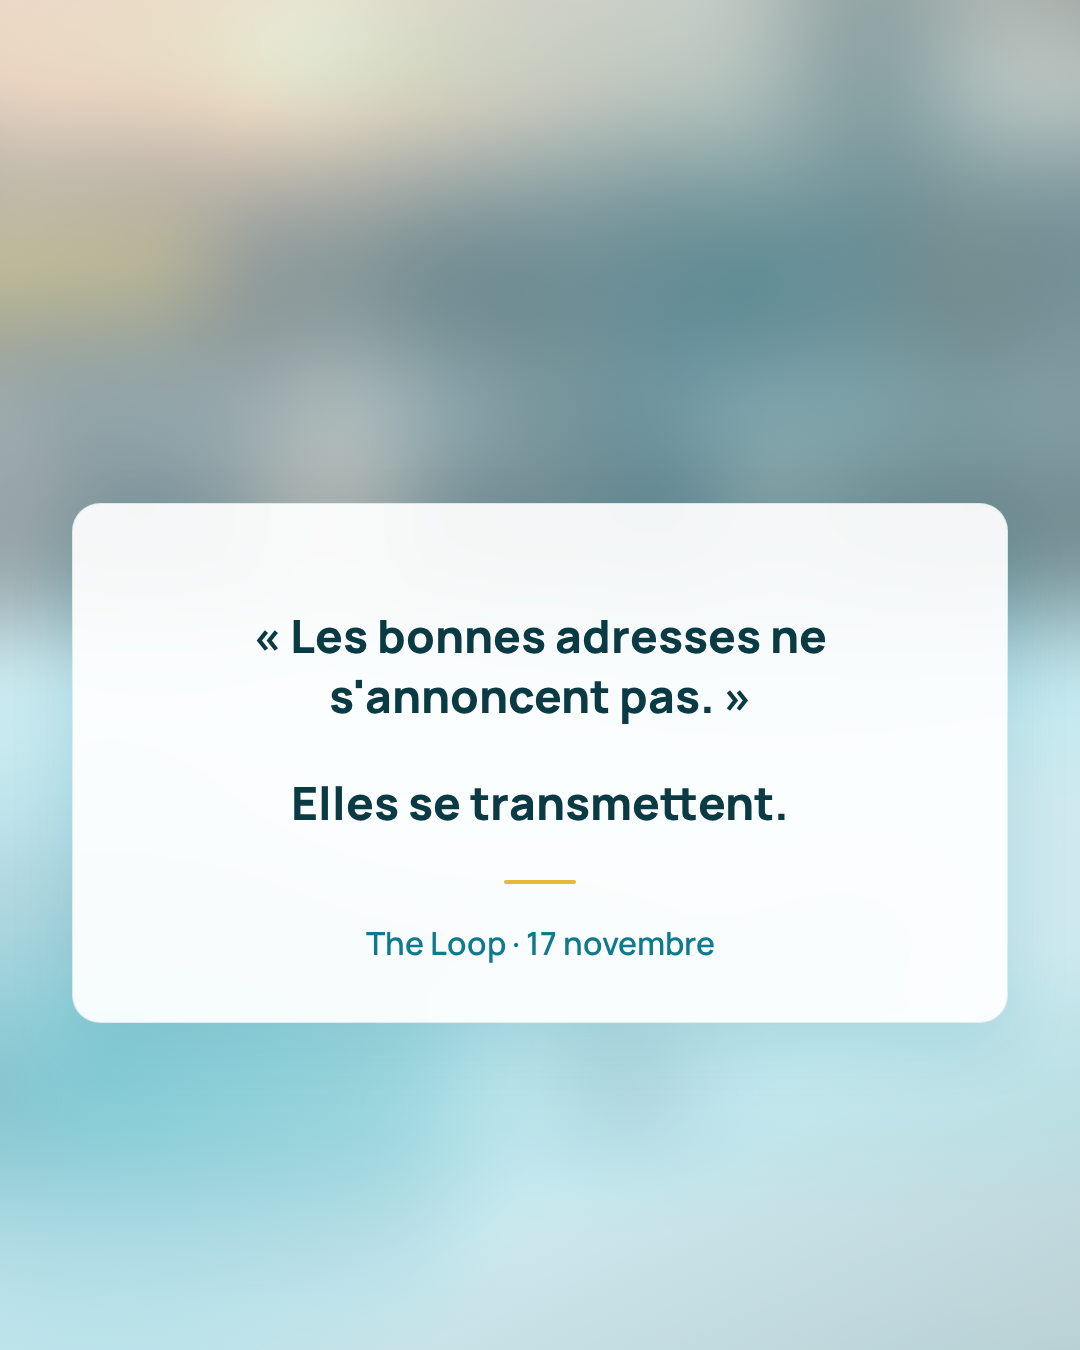
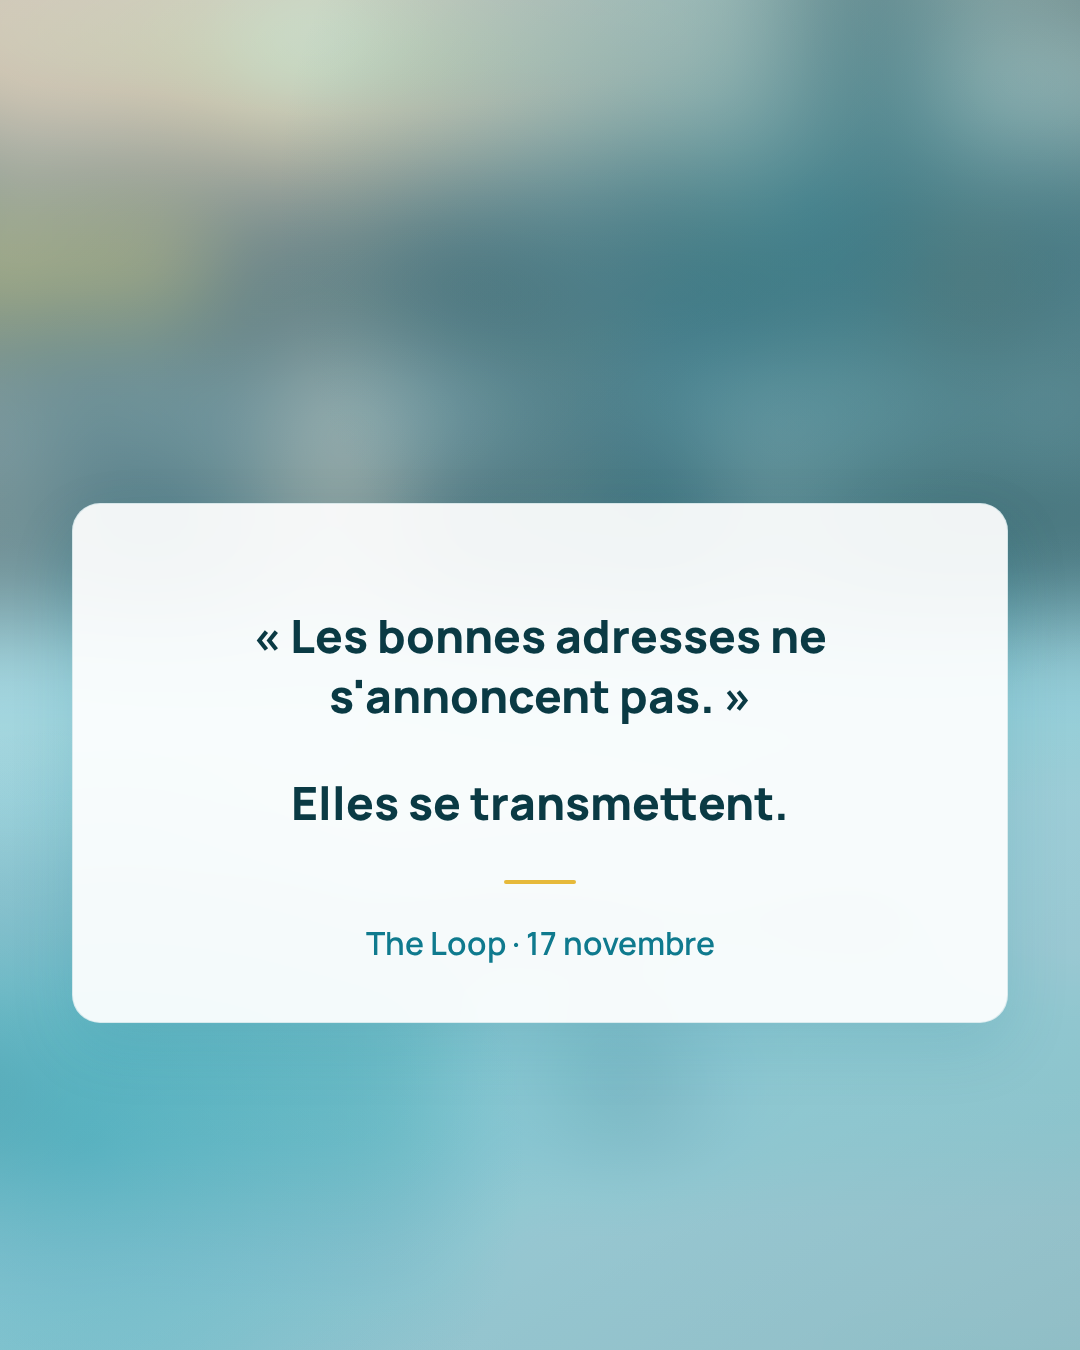
docs(com): fond texte — bleu-vert encore renforcé

diff --git a/docs/communication/lancement-2026/export-visuels-pack-acte-a-v4-light.html b/docs/communication/lancement-2026/export-visuels-pack-acte-a-v4-light.html
@@ -11,8 +11,8 @@
       --teal-mid: #1596ad;
       --teal-light: #a8d9e4;
       --gold: #e6b93a;
-      --bg: #dff0f4;
-      --bg2: #b5dde8;
+      --bg: #c8e8ef;
+      --bg2: #8ecbd9;
       --card: #ffffff;
       --muted: #4a6570;
     }
@@ -24,7 +24,7 @@
       margin: 0 auto 16px;
       position: relative;
       overflow: hidden;
-      background: linear-gradient(155deg, var(--bg) 0%, var(--bg2) 42%, var(--teal-light) 78%, rgba(15,122,142,0.35) 100%);
+      background: linear-gradient(150deg, var(--bg) 0%, var(--bg2) 38%, #6eb8c9 72%, rgba(15,122,142,0.55) 100%);
       color: var(--deep);
     }
     .c.reel { height: 1920px; }
@@ -34,13 +34,14 @@
       inset: -20%;
       background: url('assets/capture-accueil-2.jpg') center 20% / cover no-repeat;
       filter: blur(52px) saturate(1.25) brightness(1.05) hue-rotate(-8deg);
-      opacity: 0.42;
+      opacity: 0.48;
     }
     .atmo-teal {
       position: absolute;
       inset: 0;
-      background: radial-gradient(ellipse 90% 70% at 70% 20%, rgba(15,122,142,0.28), transparent 55%),
-        radial-gradient(ellipse 80% 60% at 10% 80%, rgba(21,150,173,0.22), transparent 50%);
+      background: radial-gradient(ellipse 95% 75% at 75% 15%, rgba(15,122,142,0.38), transparent 52%),
+        radial-gradient(ellipse 85% 65% at 8% 85%, rgba(21,150,173,0.32), transparent 48%),
+        linear-gradient(180deg, rgba(15,122,142,0.08) 0%, rgba(15,122,142,0.18) 100%);
       pointer-events: none;
       z-index: 1;
     }
@@ -50,7 +51,7 @@
       top: 180px;
       width: 520px;
       height: 520px;
-      opacity: 0.07;
+      opacity: 0.1;
       z-index: 1;
     }
     .blobs {
@@ -63,9 +64,9 @@
       border-radius: 50%;
       filter: blur(2px);
     }
-    .blob.a { width: 480px; height: 480px; background: rgba(15,122,142,0.26); top: -100px; right: -120px; }
-    .blob.b { width: 320px; height: 320px; background: rgba(21,150,173,0.2); bottom: 180px; left: -80px; }
-    .blob.c { width: 200px; height: 200px; background: rgba(15,122,142,0.18); top: 45%; left: 55%; }
+    .blob.a { width: 520px; height: 520px; background: rgba(15,122,142,0.34); top: -110px; right: -130px; }
+    .blob.b { width: 360px; height: 360px; background: rgba(21,150,173,0.28); bottom: 160px; left: -90px; }
+    .blob.c { width: 240px; height: 240px; background: rgba(15,122,142,0.26); top: 42%; left: 52%; }
     .inner {
       position: relative;
       z-index: 2;
@@ -80,7 +81,7 @@
       border-radius: 28px;
       padding: 56px 52px;
       box-shadow: 0 24px 64px rgba(15,122,142,0.14);
-      border: 1px solid rgba(15,122,142,0.12);
+      border: 1px solid rgba(15,122,142,0.2);
       margin-top: auto;
       margin-bottom: auto;
     }
